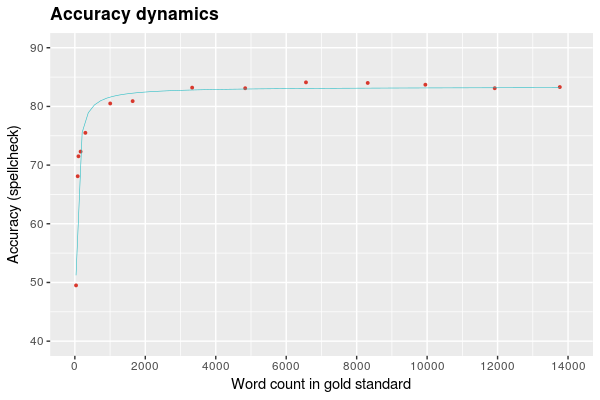
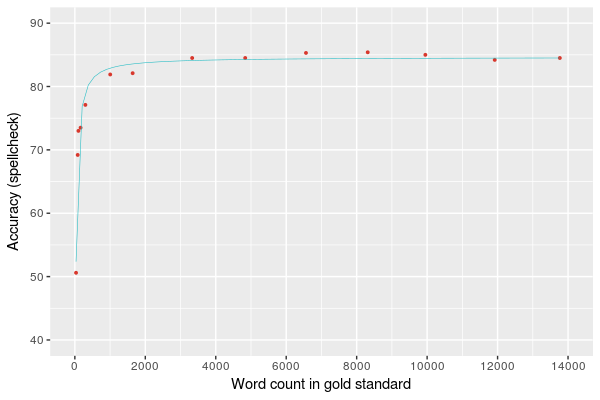
report

diff --git a/accuracy.py b/accuracy.py
@@ -1,7 +1,7 @@
 from Levenshtein import distance
 from pymystem3 import Mystem
 
-run = 'both'
+run = '4035'
 
 m = Mystem()
 

diff --git a/reports/report_accuracy_dynamic.md b/reports/report_accuracy_dynamic.md
@@ -11,20 +11,20 @@ LM *type* is fixed: both spoken + written language corpora.
 
 | clause count | word count | train time | acc          | acc spellcheck | lemma acc    | 
 |--------------|------------|------------|--------------|----------------|--------------| 
-| 10           | 34         | 00:00:13   | 24.4         | 49.5           | 51.9         | 
-| 25           | 81         | 00:00:15   | 58.9         | 68.1           | 74.6         | 
-| 30           | 102        | 00:00:16   | 64.1         | 71.5           | 77.2         | 
-| 50           | 163        | 00:00:18   | 66.4         | 72.3           | 77.3         | 
-| 100          | 299        | 00:00:19   | 70           | 75.5           | 80.7         |
-| 300          | 1004       | 00:00:40   | 78.4         | 80.5           | 84.4         | 
-| 500          | 1641       | 00:00:45   | 77.9         | 80.9           | 85.8         | 
-| 1000         | 3330       | 00:05:37   | 82           | 83.2           | 87.2         | 
-| 1500         | 4836       | 00:03:11   | 80.5         | 83.1           | 85.8         | 
-| 2000         | 6561       | 00:04:41   | 82.5         | 84.1           | 87.6         | 
-| 2500         | 8314       | 00:09:45   | 83.1         | 84             | 87.2         | 
-| 3000         | 9950       | 00:18:11   | 82.8         | 83.7           | 87.2         | 
-| 3500         | 11919      | 00:10:27   | 82.1         | 83.1           | 86.9         | 
-| 4035         | 13767      | 00:11:15   | 82.5 **(84.8&ast;)** | 83.3 **(85.8&ast;)**   | 86.9 **(89.6&ast;)** | 
+| 10           | 34         | 00:00:13   | 24.9         | 50.6           | 53           | 
+| 25           | 81         | 00:00:15   | 59.8         | 69.2           | 75.8         | 
+| 30           | 102        | 00:00:16   | 65.4         | 73             | 78.8         | 
+| 50           | 163        | 00:00:18   | 67.5         | 73.5           | 78.6         | 
+| 100          | 299        | 00:00:19   | 71.4         | 77.1           | 82.5         | 
+| 300          | 1004       |  00:00:40  | 79.7         | 81.9           | 85.8         | 
+| 500          | 1641       | 00:00:45   | 79.1         | 82.1           | 87.1         | 
+| 1000         | 3330       | 00:05:37   | 83.3         | 84.5           | 88.5         | 
+| 1500         | 4836       | 00:03:11   | 81.9         | 84.5           | 87.2         | 
+| 2000         | 6561       | 00:04:41   | 83.6         | 85.3           | 88.9         | 
+| 2500         | 8314       | 00:09:45   | 84.5         | 85.4           | 88.6         | 
+| 3000         | 9950       | 00:18:11   | 84.1         | 85             | 88.5         | 
+| 3500         | 11919      | 00:10:27   | 83.3         | 84.2           | 88.2         | 
+| 4035         | 13767      | 00:11:15   | 83.6 **(84.8&ast;)** | 84.5 **(85.8&ast;)**   | 88.2 **(89.6&ast;)** | 
 
 **&ast; after manual alignment.**
 
@@ -60,5 +60,16 @@ X-squared = 0.016609, df = 1, p-value = 0.8975
 ```
 
 ## III. Accuracy ~ size of language model
+
+Gold standard size is fixed: 13767 words.<br>
+LM *type* is fixed: both spoken + written language corpora.
+
+### Table 4. Accuracy ~ size of language model
+
+| clause count | word count | train time | acc  | acc spellcheck | lemma acc |
+| ------------ | ---------- | ---------- | ---- | -------------- | --------- |
+| 4035         | 13767      | 00:11:15   | 83.6 | 84.5           | 88.2      |
+
+### Figure 2. Accuracy ~ size of language model
 
 ## IV. Quality error ...
